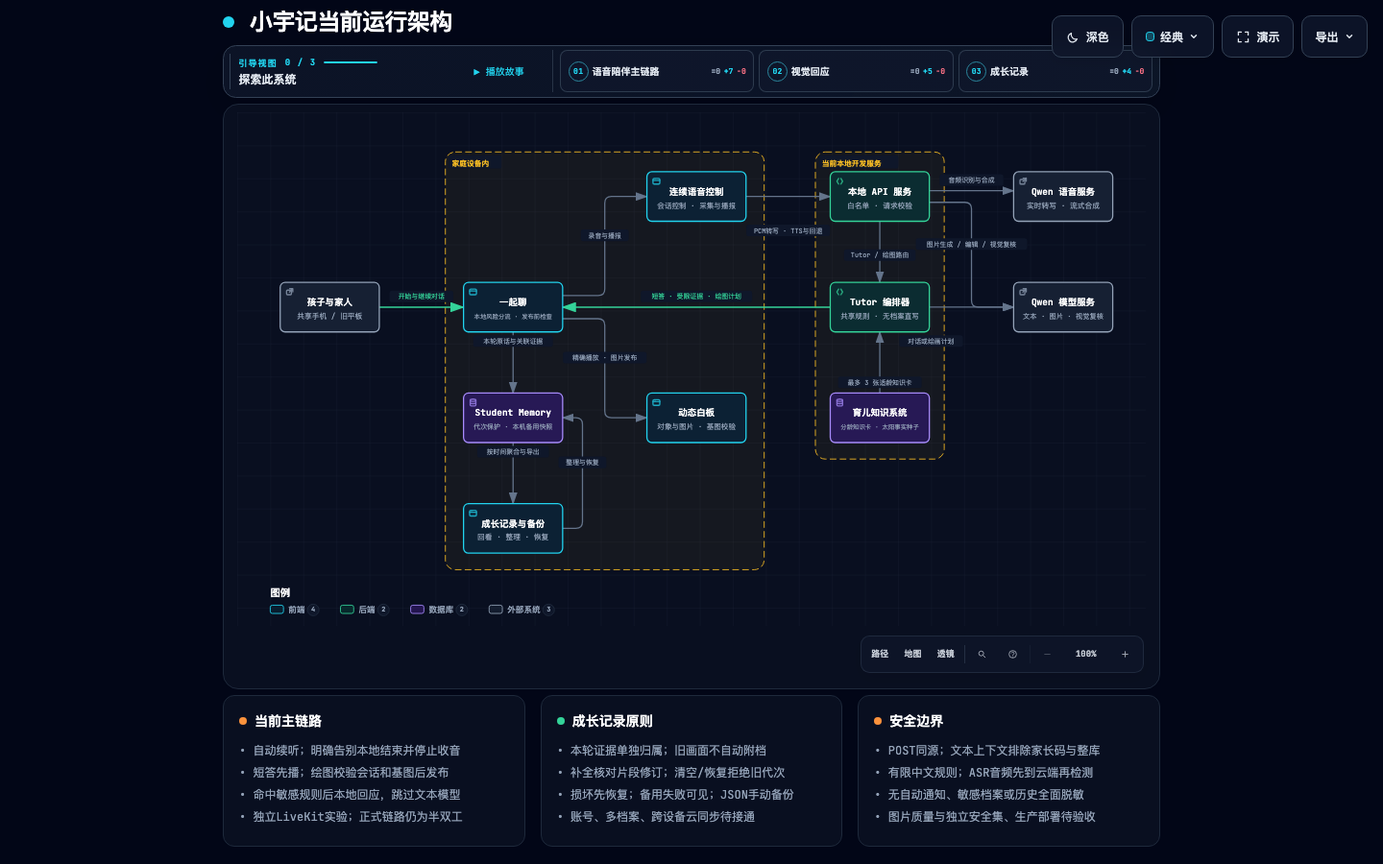
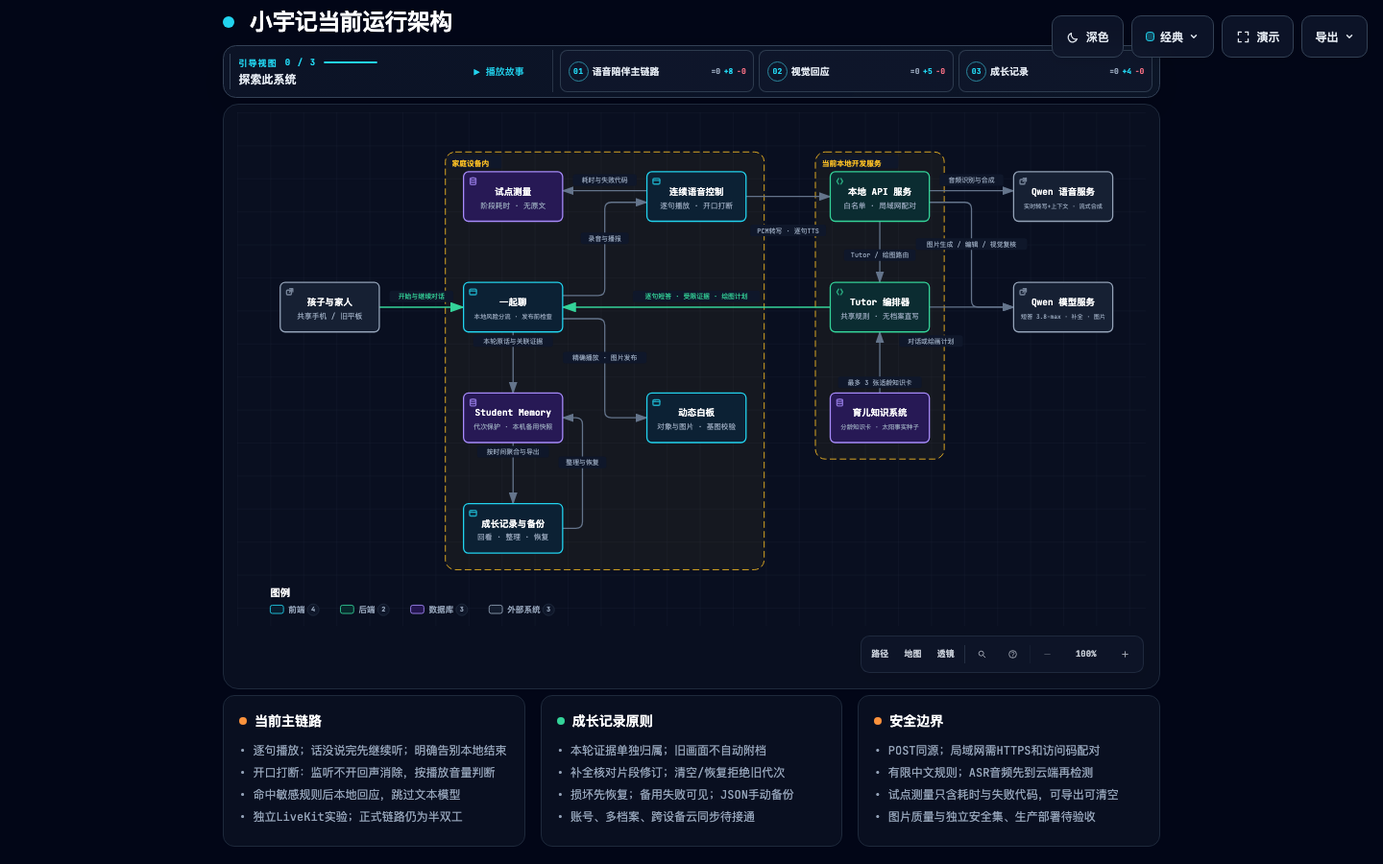
Sync runtime architecture diagram and record qwen3.8-max cost
- Diagram: sentence-by-sentence playback and barge-in in voice control,
  LAN pairing on the local server, recogniser context, qwen3.8-max quick
  replies, and a device-side pilot measurement store (timings only);
  9/9 checks, visual check passed, screenshots reviewed
- Cost: official Beijing prices (max 12/36 vs flash 0.2/0.8 per M tokens);
  ~89% of quick-reply input hits the automatic cache, so a turn costs
  about 0.024 vs 0.011 yuan in total

diff --git a/product/docs/architecture/xiaoyuji-runtime.architecture.html b/product/docs/architecture/xiaoyuji-runtime.architecture.html
@@ -4959,7 +4959,7 @@
       </div>
     </div>
 
-    <script id="archify-guided-views-data" type="application/json">[{"id":"voice-loop","label":"语音陪伴主链路","focus":["family","conversation_ui","voice_pipeline","local_server","qwen_speech","tutor_orchestrator","qwen_text"],"note":"正式网页仍半双工：只读状态、候选单次接收、后台补全与媒体展示分离。独立voice-lab默认合成测试，显式Qwen模式已验证本机音频、打断与停止，不写家庭档案；漏词与延迟未达标，儿童体验及iPhone锁屏尚未验收。"},{"id":"visual-response","label":"视觉回应","focus":["tutor_orchestrator","conversation_ui","whiteboard","local_server","qwen_text"],"note":"精确对象本地执行；开放图片生成后必须通过视觉模型的低幼安全、要求匹配和编辑保持检查。自动检查不是完整发布验收。"},{"id":"growth-record","label":"成长记录","focus":["tutor_orchestrator","student_memory","growth_experience","family"],"note":"本轮上下文独立，旧画面不自动附档；补全核对revision/sessionId。普通写入经applicationPersistence统一结果及失败提示，保留已保存片段身份。替换/恢复沿用专用流程。同步主存储与整包备用快照不变，跨记录事务及历史清理未完成。"}]</script>
+    <script id="archify-guided-views-data" type="application/json">[{"id":"voice-loop","label":"语音陪伴主链路","focus":["family","conversation_ui","voice_pipeline","local_server","qwen_speech","tutor_orchestrator","qwen_text","pilot_log"],"note":"正式网页仍半双工，但已支持逐句播放与开口打断（监听麦克风不开回声消除，参照播放音量判断）。局域网试点经HTTPS与访问码配对；测量只存本机标签页。独立voice-lab仍为实验。儿童体验、iPhone锁屏与生产部署尚未验收。"},{"id":"visual-response","label":"视觉回应","focus":["tutor_orchestrator","conversation_ui","whiteboard","local_server","qwen_text"],"note":"精确对象本地执行；开放图片生成后必须通过视觉模型的低幼安全、要求匹配和编辑保持检查。自动检查不是完整发布验收。"},{"id":"growth-record","label":"成长记录","focus":["tutor_orchestrator","student_memory","growth_experience","family"],"note":"本轮上下文独立，旧画面不自动附档；补全核对revision/sessionId。普通写入经applicationPersistence统一结果及失败提示，保留已保存片段身份。替换/恢复沿用专用流程。同步主存储与整包备用快照不变，跨记录事务及历史清理未完成。"}]</script>
 
     <script id="archify-i18n-data" type="application/json">{"locale":"zh-CN","messages":{"viewer.kind.frontend":"前端","viewer.kind.backend":"后端","viewer.kind.database":"数据库","viewer.kind.cloud":"云服务","viewer.kind.security":"安全","viewer.kind.messagebus":"消息总线","viewer.kind.external":"外部系统","viewer.kind.neutral":"中性","viewer.kind.node":"节点","viewer.kind.start":"开始","viewer.kind.active":"活动","viewer.kind.waiting":"等待","viewer.kind.decision":"决策","viewer.kind.success":"成功","viewer.kind.failure":"失败","viewer.toolbar.actions":"图表操作","viewer.theme.toggle.title":"切换主题（T）","viewer.theme.toggle":"切换颜色主题","viewer.theme.dark":"深色","viewer.theme.light":"浅色","viewer.preset.choose.title":"选择视觉风格（S 循环切换）","viewer.preset.choose":"选择视觉风格","viewer.preset.style":"风格","viewer.preset.menu":"视觉风格","viewer.preset.identity":"视觉表达","viewer.preset.cycles":"S 循环切换","viewer.preset.classic":"经典","viewer.preset.classic.short":"经典","viewer.preset.classic.hint":"稳定的技术默认风格","viewer.preset.flow":"信号流","viewer.preset.flow.short":"流动","viewer.preset.flow.hint":"突出动态流向","viewer.preset.blueprint":"蓝图","viewer.preset.blueprint.hint":"工程评审","viewer.preset.editorial":"编辑风格","viewer.preset.editorial.hint":"适合发布与上线说明","viewer.preset.badge.signalFlow":"信号流","viewer.preset.badge.blueprint":"蓝图 / 修订 01","viewer.preset.badge.editorial":"编辑风格 / 现场笔记","viewer.preset.badge.editorialPlate":"ARCHIFY / 图版 04","viewer.preset.current":"当前视觉风格：{style}。选择视觉风格","viewer.motion.live":"动态","viewer.motion.still":"静态","viewer.motion.pause":"暂停动效","viewer.motion.resume":"恢复动效","viewer.motion.reduced":"已根据减少动态效果偏好暂停动效","viewer.motion.hidden":"页面不可见时已暂停动效","viewer.motion.yielding":"暂停动效；当前让位于{owner}","viewer.motion.yielding.title":"动态预览已启用 · 正在让位于{owner}","viewer.owner.story":"引导故事","viewer.owner.chapter":"当前章节","viewer.owner.chapterPreview":"章节差异预览","viewer.owner.handoff":"章节交接","viewer.owner.route":"路径探测","viewer.owner.lens":"语义透镜","viewer.owner.relationship":"关系预览","viewer.owner.intent":"意图追踪","viewer.owner.focus":"语义聚焦","viewer.owner.legend":"图例预览","viewer.owner.reader":"读者交互","viewer.present.enter":"进入演示模式","viewer.present.enter.title":"演示模式（F）","viewer.present.exit":"退出演示模式","viewer.present.exit.title":"退出演示模式（F 或 Escape）","viewer.present.present":"演示","viewer.present.exit.label":"退出","viewer.export.button":"导出","viewer.export.button.title":"导出图表（E）","viewer.export.diagram":"导出图表","viewer.export.menu":"导出","viewer.export.subtitle":"便携、整洁的输出","viewer.export.share":"分享","viewer.export.shareCard":"分享卡片","viewer.export.routeShareCard":"路径分享卡片","viewer.export.reachShareCard":"可达范围分享卡片","viewer.export.copyShareCard":"复制分享卡片","viewer.export.copyDiagram":"复制图表","viewer.export.clipboardPng":"复制 PNG 到剪贴板","viewer.export.raster":"位图","viewer.export.image":"图像","viewer.export.lossless":"无损图像","viewer.export.compact":"紧凑图像","viewer.export.modern":"现代图像格式","viewer.export.vectorMotion":"矢量与动效","viewer.export.vectorMotion.heading":"矢量与动效","viewer.export.editable":"可编辑矢量图","viewer.export.motion6s":"6 秒动效","viewer.export.unsupported":"当前浏览器不支持","viewer.export.clipboardUnsupported":"当前浏览器不支持写入图片剪贴板","viewer.export.clipboardUnsupported.period":"当前浏览器不支持写入图片剪贴板。","viewer.export.clipboardUnsupported.short":"此浏览器不支持写入图片剪贴板。","viewer.export.motionUnavailable":"当前浏览器无法录制动效","viewer.export.webmUnavailable":"当前浏览器不支持 WebM","viewer.export.failed":"导出失败：{message}","viewer.export.unknownVariant":"未知的分享卡片类型：{variant}","viewer.export.routeRequired":"请先追踪路径，再导出路径分享卡片","viewer.export.reachRequired":"请先追踪编写可达范围，再导出可达范围分享卡片","viewer.export.unknown":"未知错误","viewer.export.routeFailed":"路径分享卡片导出失败：{message}","viewer.export.reachFailed":"可达范围分享卡片导出失败：{message}","viewer.export.copyFailed":"复制失败：{message}","viewer.export.copiedPng":"已将 PNG 复制到剪贴板","viewer.export.copiedShare":"已复制分享卡片","viewer.export.downloadedShare":"已下载分享卡片","viewer.export.downloadedRoute":"已下载路径分享卡片","viewer.export.downloadedReach":"已下载可达范围分享卡片","viewer.export.downloadedWebm":"已下载 WebM","viewer.export.recording":"正在录制 6 秒动效…","viewer.export.card.routeSummary.one":"路径：{source} → {target} · {count} 个有向跳转","viewer.export.card.routeSummary.other":"路径：{source} → {target} · {count} 个有向跳转","viewer.export.card.reachSummary":"从{origin}开始的编写{direction} · {nodes} · {links} · 最深 {hops}","viewer.export.card.node.one":"{count} 个节点","viewer.export.card.node.other":"{count} 个节点","viewer.export.card.link.one":"{count} 条连接","viewer.export.card.link.other":"{count} 条连接","viewer.export.card.hop.one":"{count} 跳","viewer.export.card.hop.other":"{count} 跳","viewer.export.card.routeBadge":"ARCHIFY · 路径 · {hops}","viewer.export.card.reachBadge":"ARCHIFY · {direction}可达范围","viewer.export.card.defaultBadge":"ARCHIFY · {preset} · {theme}","viewer.export.direction.upstream":"上游","viewer.export.direction.downstream":"下游","viewer.export.error.canvasUnavailable":"无法为{label}使用画布","viewer.export.error.contextUnavailable":"无法为{label}创建二维画布上下文","viewer.export.error.toBlobUnavailable":"{label}无法使用 canvas.toBlob","viewer.export.error.toBlobNull":"{label}的 canvas.toBlob 未返回数据","viewer.export.error.variantsCombined":"无法同时组合多种分享卡片类型","viewer.export.error.viewerState":"分享卡片导出无法移除临时 Viewer 状态","viewer.export.error.routeState":"路径卡片导出无法安全保留已解析路径","viewer.export.error.reachState":"可达范围卡片导出无法安全保留编写的可达范围","viewer.export.error.webmRequirements":"WebM 动效导出需要追踪动画及浏览器 MediaRecorder 支持","viewer.export.error.mediaRecorder":"MediaRecorder 录制失败","viewer.export.error.emptyWebm":"MediaRecorder 生成了空的 WebM","viewer.export.error.webmBackground":"无法为 WebM 导出加载 SVG 背景","viewer.guided.region":"图表引导视图","viewer.guided.previous":"上一个引导视图","viewer.guided.previous.title":"上一个引导视图（[）","viewer.guided.next":"下一个引导视图","viewer.guided.next.title":"下一个引导视图（]）","viewer.guided.views":"引导视图","viewer.guided.explore":"探索此系统","viewer.guided.intro":"沿精选路径逐步查看，而不改变源图表。","viewer.guided.trail":"故事轨迹","viewer.guided.beat":"节点","viewer.guided.nextBeat":"下一步","viewer.guided.play":"播放引导故事","viewer.guided.play.title":"播放引导故事（P）","viewer.guided.pause":"暂停引导故事","viewer.guided.pause.title":"暂停引导故事（P）","viewer.guided.replay":"重播引导故事","viewer.guided.replay.title":"重播引导故事（P）","viewer.guided.playStory":"播放故事","viewer.guided.pauseStory":"暂停","viewer.guided.replayStory":"重播故事","viewer.guided.motionUnavailable":"静态模式下无法播放故事","viewer.guided.enableMotion":"切换为动态模式以播放引导故事","viewer.guided.selectBeatLink":"选择故事节点以复制其精确链接","viewer.guided.copyMoment":"复制此刻","viewer.guided.momentCopied":"已复制时刻链接","viewer.guided.momentCopyFailed":"无法复制故事时刻链接","viewer.guided.copied":"已复制","viewer.guided.copyFailed":"复制失败","viewer.guided.showAll":"显示全部","viewer.guided.showAll.aria":"显示完整图表","viewer.guided.chapters":"故事章节","viewer.guided.storyTrail":"{label}的故事轨迹：{count} 个节点","viewer.guided.chapter.open":"打开第 {index}/{total} 章：{label}，{count} 个停靠点","viewer.guided.chapter.current":"当前第 {index}/{total} 章：{label}，{count} 个停靠点","viewer.guided.chapter.selectedNodes":"已选择 {count} 个节点","viewer.guided.chapter.stops":"{count} 个停靠点","viewer.guided.chapter.stop.one":"{count} 个停靠点","viewer.guided.chapter.stop.other":"{count} 个停靠点","viewer.guided.chapter.current.title":"{label} — 当前章节，{count} 个停靠点","viewer.guided.chapter.delta.expanded":"{stay} 个保留，{enter} 个进入，{leave} 个离开","viewer.guided.chapter.delta.aria":"打开第 {index}/{total} 章：{label}。章节聚焦差异：{delta}","viewer.guided.chapter.delta.title":"{label} — 章节聚焦 {delta}","viewer.guided.handoff":"{from} → {to} · 经由{label}","viewer.guided.share.chapter":"章节 {index} / {total}","viewer.guided.share.initial":"章节 01 / 01","viewer.guided.share.default":"引导章节","viewer.guided.state.ready":"就绪","viewer.guided.state.playing":"播放中","viewer.guided.state.settled":"已完成","viewer.guided.state.paused":"已暂停","viewer.guided.state.pinned":"已固定","viewer.guided.state.still":"静态","viewer.guided.share.step":"步骤 {index} / {total} · {label}","viewer.guided.share.staticMoment":"{step} · 静态时刻","viewer.guided.share.complete":"{count} 个步骤已完成 · {note}","viewer.guided.share.settled":"路径已稳定，可供阅读。","viewer.guided.share.staticPath":"{count} 个步骤 · 静态路径","viewer.guided.share.ready":"{count} 个步骤 · 就绪","viewer.guided.share.aria":"{state}，第 {index}/{total} 章：{label}。{beat}。{route}","viewer.guided.beat.start":"节点 {index} / {total} · {label} · 起点","viewer.guided.beat.forward":"节点 {index} / {total} · {from} → {to}","viewer.guided.beat.reverse":"节点 {index} / {total} · {from} → {to} · 反向编写连接","viewer.guided.beat.multiple":"节点 {index} / {total} · {from} ⇄ {to} · {count} 条编写连接","viewer.guided.beat.group":"节点 {index} / {total} · {from} · {to} · 分组 · 无直接连接","viewer.guided.beat.aria.prefix":"故事节点 {index}/{total}：{label}。","viewer.guided.beat.aria.start":"起点。","viewer.guided.beat.aria.forward":"从{from}经一条正向编写关系到达。","viewer.guided.beat.aria.reverse":"从{from}出发；编写关系实际由{to}指向{from}。","viewer.guided.beat.aria.multiple":"从{from}经 {count} 条编写关系到达；不使用任意动效。","viewer.guided.beat.aria.group":"与{from}分组展示，没有直接编写关系。","viewer.guided.caption.start":"起点","viewer.guided.caption.grouped":"分组过渡 · 无直接编写连接","viewer.guided.caption.more":" +另外 {count} 条","viewer.guided.caption.reverse":"反向编写关系","viewer.guided.caption.relationships":"{count} 条编写关系","viewer.guided.caption.relationship":"编写关系","viewer.guided.caption.direction":"编写方向：{from} → {to}","viewer.guided.caption.starting":"编写起点","viewer.guided.beatLink":"复制当前故事时刻链接：第 {index}/{total} 个节点：{label}","viewer.guided.noStory":"此图表没有编写引导故事。","viewer.guide.eyebrow":"图表指南","viewer.guide.close":"关闭图表指南","viewer.guide.inspecting":"正在检查已编译语义","viewer.guide.actions":"图表探索操作","viewer.guide.find":"查找任意节点","viewer.guide.find.hint":"搜索标签、职责、类型和稳定 ID。","viewer.guide.route":"追踪路径","viewer.guide.route.aria":"追踪有向路径","viewer.guide.route.hint":"查看两个语义节点如何按编写方向连接。","viewer.guide.map":"查看完整系统","viewer.guide.map.hint":"打开带实时视口和稳定节点的语义雷达。","viewer.guide.lens":"比较语义类型","viewer.guide.lens.hint":"统计角色、显示流量并比较直接编写的连接。","viewer.guide.story":"播放引导故事","viewer.guide.story.hint":"浏览已编写的章节和真实关系。","viewer.guide.present":"进入演示模式","viewer.guide.present.hint":"让实时图表占满视口，同时不改变导出。","viewer.guide.shortcuts":"其他键盘快捷键","viewer.guide.shortcut.export":"导出","viewer.guide.shortcut.theme":"主题","viewer.guide.shortcut.style":"风格","viewer.guide.shortcut.reset":"重置","viewer.guide.shortcut.zoomIn":"放大","viewer.guide.shortcut.zoomOut":"缩小","viewer.guide.shortcut.close":"关闭","viewer.guide.facts":"{nodes} · {relationships} · {views}","viewer.guide.fact.node.one":"{count} 个语义节点","viewer.guide.fact.node.other":"{count} 个语义节点","viewer.guide.fact.relationship.one":"{count} 条关系","viewer.guide.fact.relationship.other":"{count} 条关系","viewer.guide.fact.view.one":"{count} 个引导视图","viewer.guide.fact.view.other":"{count} 个引导视图","viewer.guide.story.available.one":"浏览 {count} 个已编写章节及其真实关系。","viewer.guide.story.available.other":"浏览 {count} 个已编写章节及其真实关系。","viewer.guide.story.unavailable":"此图表没有编写引导故事。","viewer.guide.open":"打开图表指南","viewer.guide.noStory":"此图表没有编写引导故事。","viewer.finder.title":"查找节点","viewer.finder.close":"关闭节点查找器","viewer.finder.placeholder":"搜索标签或 ID","viewer.finder.search":"搜索图表节点","viewer.finder.results":"图表节点","viewer.finder.empty":"没有匹配的节点","viewer.finder.result.focus":"聚焦{label}","viewer.finder.result.routeStart":"选择{label}作为路径起点","viewer.finder.result.routeTarget":"选择{label}作为路径终点，{links}","viewer.finder.status.empty":"没有匹配的节点","viewer.finder.status.count.one":"{count} 个匹配节点","viewer.finder.status.count.other":"{count} 个匹配节点","viewer.finder.noun.nodes":"个节点","viewer.finder.link.one":"{count} 条连接","viewer.finder.link.other":"{count} 条连接","viewer.finder.result.focus.one":"聚焦{label}，{count} 条相关连接","viewer.finder.result.focus.other":"聚焦{label}，{count} 条相关连接","viewer.finder.status.filtered":"{visible}/{available} {noun}","viewer.finder.status.all":"{available} {noun}","viewer.passport.eyebrow":"语义护照","viewer.passport.metadata":"节点元数据","viewer.passport.evidence":"已验证的源代码证据","viewer.passport.verified":"已验证来源","viewer.passport.reach":"编写可达范围","viewer.passport.reach.trace":"追踪编写的可达性","viewer.passport.upstream":"上游","viewer.passport.downstream":"下游","viewer.passport.upstream.trace":"追踪上游编写可达性","viewer.passport.downstream.trace":"追踪下游编写可达性","viewer.passport.close":"关闭语义护照","viewer.passport.copy":"复制链接","viewer.passport.copy.focus":"复制聚焦节点的链接","viewer.passport.relations":"关系","viewer.passport.relations.show":"显示关联关系","viewer.passport.relations.hide":"隐藏关联关系","viewer.passport.relations.list":"关联关系","viewer.passport.copyRelation":"复制关系","viewer.passport.copyNode":"复制节点","viewer.passport.copyPinned":"复制固定关系的链接","viewer.passport.copySource":"复制来源节点的链接","viewer.passport.copy.focused.success":"已复制聚焦节点链接","viewer.passport.copy.pinned.success":"已复制固定关系链接","viewer.passport.copy.focused.failed":"无法复制聚焦节点链接","viewer.passport.copy.pinned.failed":"无法复制固定关系链接","viewer.passport.relationship.none":"没有关联关系","viewer.passport.relationship.count.one":"{count} 条关系","viewer.passport.relationship.count.other":"{count} 条关系","viewer.passport.relationship.show.one":"显示 {count} 条关联关系","viewer.passport.relationship.show.other":"显示 {count} 条关联关系","viewer.passport.relationship.summary":"{out} 条出向 · {in} 条入向{loops}","viewer.passport.relationship.loops":" · {count} 条自环","viewer.passport.relationship.explorer":"直接关系浏览器","viewer.passport.relationship.help":"使用方向键浏览关系。按 Enter 或空格键固定详情；按 Escape 清除。","viewer.passport.relationship.loopsBack":"回环","viewer.passport.relationship.connectsTo":"连接到","viewer.passport.relationship.connectsFrom":"连接自","viewer.passport.relationship.pinned":"已固定关系 · {from} → {to} · {label}","viewer.passport.relationship.inspect":"检查第 {index}/{total} 条关系：{from} 到 {to}，{label}。按 Enter 查看详情。","viewer.passport.relationship.group.out":"出向","viewer.passport.relationship.group.in":"入向","viewer.passport.relationship.group.loop":"自环","viewer.passport.relationship.row":"{group}：{relationship}，{neighbor}","viewer.passport.relationship.direction.out":"出 →","viewer.passport.relationship.direction.in":"← 入","viewer.passport.relationship.direction.loop":"自环","viewer.passport.sourceCount.one":"{count} 个已验证来源引用","viewer.passport.sourceCount.other":"{count} 个已验证来源引用","viewer.passport.sourceMarker":"来源","viewer.passport.beacon.one":"{count} 个已验证来源；聚焦此节点以检查","viewer.passport.beacon.other":"{count} 个已验证来源；聚焦此节点以检查","viewer.passport.repository.open":"打开已验证的仓库修订版本 {revision}","viewer.passport.source.open":"打开修订版本 {revision} 中已验证的来源 {path}","viewer.passport.source.openLink":"打开 ↗","viewer.passport.reach.upstream.one":"追踪 {count} 个上游编写节点","viewer.passport.reach.upstream.other":"追踪 {count} 个上游编写节点","viewer.passport.reach.downstream.one":"追踪 {count} 个下游编写节点","viewer.passport.reach.downstream.other":"追踪 {count} 个下游编写节点","viewer.passport.reach.noUpstream":"没有上游编写节点","viewer.passport.reach.noDownstream":"没有下游编写节点","viewer.passport.reach.status":"{direction} · {nodes} 个节点 · {links} 条连接 · 最深 {hops} 跳","viewer.route.eyebrow":"路径探测","viewer.route.start":"选择起点节点","viewer.route.start.find":"查找起点","viewer.route.start.find.aria":"查找路径起点","viewer.route.copy":"复制链接","viewer.route.copy.aria":"复制已追踪路径的链接","viewer.route.clear":"清除","viewer.route.clear.aria":"清除路径探测","viewer.route.traced":"已追踪路径","viewer.route.pickTwo":"在图表中选择两个语义节点","viewer.route.pickOne":"在图表中选择一个语义节点","viewer.route.controls":"路径旅程控制","viewer.route.previous":"上一个路径位置","viewer.route.play":"播放路径旅程","viewer.route.pause":"暂停路径旅程","viewer.route.replay":"重播路径旅程","viewer.route.next":"下一个路径位置","viewer.route.journey":"旅程","viewer.route.pause.label":"暂停","viewer.route.replay.label":"重播","viewer.route.overview":"总览","viewer.route.overview.aria":"显示完整路径总览","viewer.route.instructions":"先选择来源，再选择目标；方向很重要。","viewer.route.destination":"选择从{label}出发的目标","viewer.route.destination.find":"查找目标","viewer.route.destination.find.aria":"查找可达的路径目标","viewer.route.differentDestination":"选择其他目标","viewer.route.distinct":"一条路径需要两个不同的语义节点。","viewer.route.unreachable":"没有通往{label}的有向路径","viewer.route.unreachable.detail":"从{source}无法到达{target}。请选择高亮的目标。","viewer.route.start.instructions":"选择来源。下一步只会显示有向可达的目标。","viewer.route.copy.success":"已复制路径链接","viewer.route.copy.failed":"无法复制路径链接","viewer.route.position":"路径位置 {index}/{total}：{label}","viewer.route.step":"第 {index}/{total} 步 · {phase} · {label}","viewer.route.motionRequired":"自动旅程需要动态模式","viewer.route.trigger.clear":"清除已追踪路径","viewer.route.overview.status":"{nodes} · {hops} · 最短编写路径","viewer.route.overview.node.one":"{count} 个节点","viewer.route.overview.node.other":"{count} 个节点","viewer.route.overview.hop.one":"{count} 个有向跳转","viewer.route.overview.hop.other":"{count} 个有向跳转","viewer.route.phase.playing":"播放中","viewer.route.phase.complete":"已完成","viewer.route.phase.inspecting":"检查中","viewer.route.destination.count.one":"有 {count} 个有向目标可用。请选择高亮节点。","viewer.route.destination.count.other":"有 {count} 个有向目标可用。请选择高亮节点。","viewer.route.noOutgoing":"此处没有可用的出向路径。请清除后选择其他来源。","viewer.route.result.title":"{source} 到 {target}","viewer.route.finder.source.title":"选择路径起点","viewer.route.finder.source.placeholder":"搜索路径来源","viewer.route.finder.source.empty":"没有匹配的路径来源","viewer.route.finder.source.results":"可作为路径起点的节点","viewer.route.finder.source.noun":"个路径来源","viewer.route.finder.source.badge":"起点","viewer.route.finder.target.title":"从{label}出发的目标","viewer.route.finder.target.placeholder":"搜索可达目标","viewer.route.finder.target.empty":"没有匹配的可达目标","viewer.route.finder.target.results":"可达路径目标","viewer.route.finder.target.noun":"个可达目标","viewer.route.hop.one":"{count} 跳","viewer.route.hop.other":"{count} 跳","viewer.lens.eyebrow":"语义透镜","viewer.lens.title":"比较系统角色","viewer.lens.close":"关闭语义透镜","viewer.lens.instruction":"最多选择两种语义类型。选择一种可显示其真实流量；选择两种只比较直接编写的关系。","viewer.lens.kinds":"语义类型","viewer.lens.choose":"选择一种类型以检查其节点和相连关系。","viewer.lens.copy":"复制语义透镜链接","viewer.lens.clear":"清除语义透镜","viewer.lens.open":"打开语义透镜","viewer.lens.openActive":"打开当前语义透镜","viewer.lens.legend":"语义图例","viewer.lens.legend.inspect.one":"检查{label}，{count} 个节点","viewer.lens.legend.inspect.other":"检查{label}，{count} 个节点","viewer.lens.kind.count.one":"{label}，{count} 个节点","viewer.lens.kind.count.other":"{label}，{count} 个节点","viewer.lens.compare.one":"{first} → {second}：{forward} · {second} → {first}：{reverse} · 共 {count} 条直接关系","viewer.lens.compare.other":"{first} → {second}：{forward} · {second} → {first}：{reverse} · 共 {count} 条直接关系","viewer.lens.single":"{nodes} · {relationships} · 已连接节点保持可见","viewer.lens.node.one":"{count} 个{label}节点","viewer.lens.node.other":"{count} 个{label}节点","viewer.lens.relationship.one":"{count} 条相连关系","viewer.lens.relationship.other":"{count} 条相连关系","viewer.radar.title":"语义雷达","viewer.radar.building":"正在构建总览","viewer.radar.openFull":"打开完整语义雷达","viewer.radar.open":"打开雷达","viewer.radar.close":"关闭语义雷达","viewer.radar.surface":"图表总览。点击节点进行聚焦，或使用方向键平移。","viewer.radar.click":"点击节点","viewer.radar.drag":"拖动平移","viewer.radar.space":"语义雷达需要更多地图可见空间。","viewer.radar.nodes":"语义图表雷达节点","viewer.radar.focus":"从语义雷达聚焦{label}","viewer.radar.status":"{count} 个节点 · {viewport}","viewer.radar.fullMap":"{count} 个节点 · 完整地图","viewer.radar.compacted":"已收紧雷达，避免遮挡语义护照或地图控件。","viewer.radar.cancelWaiting":"取消等待更多地图空间的语义雷达","viewer.radar.needsSpace":"语义雷达需要更多可见地图空间","viewer.radar.viewport.full":"完整地图","viewer.radar.viewport.width":"宽度 {percent}%","viewer.radar.viewport.scale":"视口 {percent}%","viewer.nav.controls":"图表视图控制","viewer.nav.route":"追踪有向路径","viewer.nav.route.title":"追踪路径（R）","viewer.nav.route.short":"路径","viewer.nav.radar":"打开语义雷达","viewer.nav.radar.title":"语义雷达（M）","viewer.nav.radar.short":"地图","viewer.nav.lens":"打开语义透镜","viewer.nav.lens.title":"语义透镜（L）","viewer.nav.lens.short":"透镜","viewer.nav.find":"查找节点","viewer.nav.find.title":"查找节点（/）","viewer.nav.guide":"打开图表指南","viewer.nav.guide.title":"图表指南（?）","viewer.nav.zoomOut":"缩小","viewer.nav.zoomOut.title":"缩小（-）","viewer.nav.reset":"重置图表视图","viewer.nav.reset.title":"重置视图（0）","viewer.nav.read":"阅读","viewer.nav.zoomIn":"放大","viewer.nav.zoomIn.title":"放大（+）","viewer.nav.camera":"{hint}。重置图表视图","viewer.nav.camera.title":"{semantic}{hint} · 重置视图（0）","viewer.nav.camera.semantic":"语义相机已启用 · ","viewer.nav.level.map":"概览","viewer.nav.level.read":"阅读","viewer.nav.level.full":"完整","viewer.nav.level.auto":"自动","viewer.nav.detail.map":"放大以显示关系标签和节点上下文","viewer.nav.detail.read":"再次放大以显示标签和注释","viewer.nav.detail.full":"完整图表详情","viewer.intent.summary":"{label}。{out} 条出向，{in} 条入向{loops}。共 {total} 条连接。按 Enter 查看详情。","viewer.intent.loops":"，{count} 条自环","viewer.common.copied":"已复制","viewer.common.copyFailed":"复制失败","viewer.common.copyLink":"复制链接","viewer.common.clear":"清除","viewer.common.close":"关闭"}}</script>
     <div class="guided-views no-print" id="guided-views" hidden aria-label="图表引导视图">
@@ -5037,17 +5037,18 @@
         <!-- Connection paths (before components for correct z-order) -->
         <path data-edge-from="local_server" data-edge-to="qwen_text" data-edge-label="图片生成 / 编辑 / 视觉复核" data-edge-key="0" data-edge-id="server_calls_image" data-composition-points="838,109;889,109;889,236;940,236" d="M 838 109 L 881 109 Q 889 109 889 117 L 889 228 Q 889 236 897 236 L 940 236" class="a-default" stroke-width="1.5" marker-end="url(#arrowhead)"/>
         <path data-edge-from="family" data-edge-to="conversation_ui" data-edge-label="开始与继续对话" data-edge-key="1" data-edge-id="family_starts_conversation" data-composition-points="172,236;274,236" d="M 172 236 L 274 236" class="a-emphasis" stroke-width="1.8" marker-end="url(#arrowhead-emphasis)"/>
-        <path data-edge-from="conversation_ui" data-edge-to="voice_pipeline" data-edge-label="录音与播报" data-edge-key="2" data-edge-id="ui_controls_voice" data-composition-points="394,222;445,222;445,102;496,102" d="M 394 222 L 437 222 Q 445 222 445 214 L 445 110 Q 445 102 453 102 L 496 102" class="a-default" stroke-width="1.5" marker-end="url(#arrowhead)"/>
-        <path data-edge-from="voice_pipeline" data-edge-to="local_server" data-edge-label="PCM转写 · TTS与回退" data-edge-key="3" data-edge-id="voice_calls_server" data-composition-points="616,102;718,102" d="M 616 102 L 718 102" class="a-default" stroke-width="1.5" marker-end="url(#arrowhead)"/>
+        <path data-edge-from="conversation_ui" data-edge-to="voice_pipeline" data-edge-label="录音与播报" data-edge-key="2" data-edge-id="ui_controls_voice" data-composition-points="394,222;445,222;445,109;496,109" d="M 394 222 L 437 222 Q 445 222 445 214 L 445 117 Q 445 109 453 109 L 496 109" class="a-default" stroke-width="1.5" marker-end="url(#arrowhead)"/>
+        <path data-edge-from="voice_pipeline" data-edge-to="local_server" data-edge-label="PCM转写 · 逐句TTS" data-edge-key="3" data-edge-id="voice_calls_server" data-composition-points="616,102;718,102" d="M 616 102 L 718 102" class="a-default" stroke-width="1.5" marker-end="url(#arrowhead)"/>
         <path data-edge-from="local_server" data-edge-to="qwen_speech" data-edge-label="音频识别与合成" data-edge-key="4" data-edge-id="server_calls_speech" data-composition-points="838,95;940,95" d="M 838 95 L 940 95" class="a-default" stroke-width="1.5" marker-end="url(#arrowhead)"/>
         <path data-edge-from="local_server" data-edge-to="tutor_orchestrator" data-edge-label="Tutor / 绘图路由" data-edge-key="5" data-edge-id="server_routes_turn" data-composition-points="778,132;778,206" d="M 778 132 L 778 206" class="a-default" stroke-width="1.5" marker-end="url(#arrowhead)"/>
         <path data-edge-from="tutor_orchestrator" data-edge-to="qwen_text" data-edge-label="对话或绘画计划" data-edge-key="6" data-edge-id="orchestrator_calls_text" data-composition-points="838,236;940,236" d="M 838 236 L 940 236" class="a-default" stroke-width="1.5" marker-end="url(#arrowhead)"/>
         <path data-edge-from="knowledge_runtime" data-edge-to="tutor_orchestrator" data-edge-label="最多 3 张适龄知识卡" data-edge-key="7" data-edge-id="knowledge_guides_tutor" data-composition-points="778,340;778,266" d="M 778 340 L 778 266" class="a-default" stroke-width="1.5" marker-end="url(#arrowhead)"/>
-        <path data-edge-from="tutor_orchestrator" data-edge-to="conversation_ui" data-edge-label="短答 · 受限证据 · 绘图计划" data-edge-key="8" data-edge-id="orchestrator_returns_structure" data-composition-points="718,236;394,236" d="M 718 236 L 394 236" class="a-emphasis" stroke-width="1.8" marker-end="url(#arrowhead-emphasis)"/>
+        <path data-edge-from="tutor_orchestrator" data-edge-to="conversation_ui" data-edge-label="逐句短答 · 受限证据 · 绘图计划" data-edge-key="8" data-edge-id="orchestrator_returns_structure" data-composition-points="718,236;394,236" d="M 718 236 L 394 236" class="a-emphasis" stroke-width="1.8" marker-end="url(#arrowhead-emphasis)"/>
         <path data-edge-from="conversation_ui" data-edge-to="whiteboard" data-edge-label="精确播放 · 图片发布" data-edge-key="9" data-edge-id="ui_renders_board" data-composition-points="394,250;445,250;445,370;496,370" d="M 394 250 L 437 250 Q 445 250 445 258 L 445 362 Q 445 370 453 370 L 496 370" class="a-default" stroke-width="1.5" marker-end="url(#arrowhead)"/>
         <path data-edge-from="conversation_ui" data-edge-to="student_memory" data-edge-label="本轮原话与关联证据" data-edge-key="10" data-edge-id="ui_saves_evidence" data-composition-points="334,266;334,340" d="M 334 266 L 334 340" class="a-default" stroke-width="1.5" marker-end="url(#arrowhead)"/>
         <path data-edge-from="student_memory" data-edge-to="growth_experience" data-edge-label="按时间聚合与导出" data-edge-key="11" data-edge-id="memory_builds_growth" data-composition-points="334,400;334,474" d="M 334 400 L 334 474" class="a-default" stroke-width="1.5" marker-end="url(#arrowhead)"/>
         <path data-edge-from="growth_experience" data-edge-to="student_memory" data-edge-label="整理与恢复" data-edge-key="12" data-edge-id="parent_updates_archive" data-composition-points="394,504;418,504;418,370;394,370" d="M 394 504 L 410 504 Q 418 504 418 496 L 418 378 Q 418 370 410 370 L 394 370" class="a-default" stroke-width="1.5" marker-end="url(#arrowhead)"/>
+        <path data-edge-from="voice_pipeline" data-edge-to="pilot_log" data-edge-label="耗时与失败代码" data-edge-key="13" data-edge-id="voice_records_timing" data-composition-points="496,95;394,95" d="M 496 95 L 394 95" class="a-default" stroke-width="1.5" marker-end="url(#arrowhead)"/>
 
         <!-- Components -->
         <g id="node-family" data-node-id="family" data-node-label="孩子与家人" tabindex="0" role="button" aria-label="聚焦孩子与家人，共享手机 / 旧平板, 架构组件" aria-pressed="false" data-node-kind="external" data-node-sublabel="共享手机 / 旧平板" data-node-context="架构组件">
@@ -5076,8 +5077,8 @@
         <text data-detail="context" x="334" y="250" class="t-muted" font-size="7.4" text-anchor="middle">本地风险分流 · 发布前检查</text>
         </g>
 
-        <g id="node-voice_pipeline" data-node-id="voice_pipeline" data-node-label="连续语音控制" tabindex="0" role="button" aria-label="聚焦连续语音控制，会话控制 · 采集与播报, 家庭设备内" aria-pressed="false" data-node-kind="frontend" data-node-sublabel="会话控制 · 采集与播报" data-node-context="家庭设备内">
-          <title>连续语音控制 · 会话控制 · 采集与播报 · 家庭设备内</title>
+        <g id="node-voice_pipeline" data-node-id="voice_pipeline" data-node-label="连续语音控制" tabindex="0" role="button" aria-label="聚焦连续语音控制，逐句播放 · 开口打断, 家庭设备内" aria-pressed="false" data-node-kind="frontend" data-node-sublabel="逐句播放 · 开口打断" data-node-context="家庭设备内">
+          <title>连续语音控制 · 逐句播放 · 开口打断 · 家庭设备内</title>
           <rect x="496" y="72" width="120" height="60" rx="6" class="c-mask"/>
           <rect x="496" y="72" width="120" height="60" rx="6" class="c-frontend" stroke-width="1.5"/>
           <g aria-hidden="true" data-semantic-sigil="frontend" class="semantic-sigil s-frontend" transform="translate(502 78) scale(0.6875)">
@@ -5087,22 +5088,22 @@
             <circle cx="6.3" cy="4.8" r=".7" class="sigil-fill"/>
           </g>
           <text data-node-label="" data-detail-anchor="" x="556" y="100" class="t-primary" font-size="11" font-weight="600" text-anchor="middle">连续语音控制</text>
-        <text data-detail="context" x="556" y="116" class="t-muted" font-size="8.8" text-anchor="middle">会话控制 · 采集与播报</text>
+        <text data-detail="context" x="556" y="116" class="t-muted" font-size="9" text-anchor="middle">逐句播放 · 开口打断</text>
         </g>
 
-        <g id="node-local_server" data-node-id="local_server" data-node-label="本地 API 服务" tabindex="0" role="button" aria-label="聚焦本地 API 服务，白名单 · 请求校验, 当前本地开发服务" aria-pressed="false" data-node-kind="backend" data-node-sublabel="白名单 · 请求校验" data-node-context="当前本地开发服务">
-          <title>本地 API 服务 · 白名单 · 请求校验 · 当前本地开发服务</title>
+        <g id="node-local_server" data-node-id="local_server" data-node-label="本地 API 服务" tabindex="0" role="button" aria-label="聚焦本地 API 服务，白名单 · 局域网配对, 当前本地开发服务" aria-pressed="false" data-node-kind="backend" data-node-sublabel="白名单 · 局域网配对" data-node-context="当前本地开发服务">
+          <title>本地 API 服务 · 白名单 · 局域网配对 · 当前本地开发服务</title>
           <rect x="718" y="72" width="120" height="60" rx="6" class="c-mask"/>
           <rect x="718" y="72" width="120" height="60" rx="6" class="c-backend" stroke-width="1.5"/>
           <g aria-hidden="true" data-semantic-sigil="backend" class="semantic-sigil s-backend" transform="translate(724 78) scale(0.6875)">
             <path d="M6 3 3 8l3 5M10 3l3 5-3 5"/>
           </g>
           <text data-node-label="" data-detail-anchor="" x="778" y="100" class="t-primary" font-size="11" font-weight="600" text-anchor="middle">本地 API 服务</text>
-        <text data-detail="context" x="778" y="116" class="t-muted" font-size="9" text-anchor="middle">白名单 · 请求校验</text>
+        <text data-detail="context" x="778" y="116" class="t-muted" font-size="9" text-anchor="middle">白名单 · 局域网配对</text>
         </g>
 
-        <g id="node-qwen_speech" data-node-id="qwen_speech" data-node-label="Qwen 语音服务" tabindex="0" role="button" aria-label="聚焦Qwen 语音服务，实时转写 · 流式合成, 架构组件" aria-pressed="false" data-node-kind="external" data-node-sublabel="实时转写 · 流式合成" data-node-context="架构组件">
-          <title>Qwen 语音服务 · 实时转写 · 流式合成 · 架构组件</title>
+        <g id="node-qwen_speech" data-node-id="qwen_speech" data-node-label="Qwen 语音服务" tabindex="0" role="button" aria-label="聚焦Qwen 语音服务，实时转写+上下文 · 流式合成, 架构组件" aria-pressed="false" data-node-kind="external" data-node-sublabel="实时转写+上下文 · 流式合成" data-node-context="架构组件">
+          <title>Qwen 语音服务 · 实时转写+上下文 · 流式合成 · 架构组件</title>
           <rect x="940" y="72" width="120" height="60" rx="6" class="c-mask"/>
           <rect x="940" y="72" width="120" height="60" rx="6" class="c-external" stroke-width="1.5"/>
           <g aria-hidden="true" data-semantic-sigil="external" class="semantic-sigil s-external" transform="translate(946 78) scale(0.6875)">
@@ -5110,7 +5111,7 @@
             <path d="M8 2.5h5.5V8M13.5 2.5 7.5 8.5"/>
           </g>
           <text data-node-label="" data-detail-anchor="" x="1000" y="100" class="t-primary" font-size="11" font-weight="600" text-anchor="middle">Qwen 语音服务</text>
-        <text data-detail="context" x="1000" y="116" class="t-muted" font-size="9" text-anchor="middle">实时转写 · 流式合成</text>
+        <text data-detail="context" x="1000" y="116" class="t-muted" font-size="7.1" text-anchor="middle">实时转写+上下文 · 流式合成</text>
         </g>
 
         <g id="node-tutor_orchestrator" data-node-id="tutor_orchestrator" data-node-label="Tutor 编排器" tabindex="0" role="button" aria-label="聚焦Tutor 编排器，共享规则 · 无档案直写, 当前本地开发服务" aria-pressed="false" data-node-kind="backend" data-node-sublabel="共享规则 · 无档案直写" data-node-context="当前本地开发服务">
@@ -5124,8 +5125,8 @@
         <text data-detail="context" x="778" y="250" class="t-muted" font-size="8.8" text-anchor="middle">共享规则 · 无档案直写</text>
         </g>
 
-        <g id="node-qwen_text" data-node-id="qwen_text" data-node-label="Qwen 模型服务" tabindex="0" role="button" aria-label="聚焦Qwen 模型服务，文本 · 图片 · 视觉复核, 架构组件" aria-pressed="false" data-node-kind="external" data-node-sublabel="文本 · 图片 · 视觉复核" data-node-context="架构组件">
-          <title>Qwen 模型服务 · 文本 · 图片 · 视觉复核 · 架构组件</title>
+        <g id="node-qwen_text" data-node-id="qwen_text" data-node-label="Qwen 模型服务" tabindex="0" role="button" aria-label="聚焦Qwen 模型服务，短答 3.8-max · 补全 · 图片, 架构组件" aria-pressed="false" data-node-kind="external" data-node-sublabel="短答 3.8-max · 补全 · 图片" data-node-context="架构组件">
+          <title>Qwen 模型服务 · 短答 3.8-max · 补全 · 图片 · 架构组件</title>
           <rect x="940" y="206" width="120" height="60" rx="6" class="c-mask"/>
           <rect x="940" y="206" width="120" height="60" rx="6" class="c-external" stroke-width="1.5"/>
           <g aria-hidden="true" data-semantic-sigil="external" class="semantic-sigil s-external" transform="translate(946 212) scale(0.6875)">
@@ -5133,7 +5134,7 @@
             <path d="M8 2.5h5.5V8M13.5 2.5 7.5 8.5"/>
           </g>
           <text data-node-label="" data-detail-anchor="" x="1000" y="234" class="t-primary" font-size="11" font-weight="600" text-anchor="middle">Qwen 模型服务</text>
-        <text data-detail="context" x="1000" y="250" class="t-muted" font-size="8.4" text-anchor="middle">文本 · 图片 · 视觉复核</text>
+        <text data-detail="context" x="1000" y="250" class="t-muted" font-size="7.1" text-anchor="middle">短答 3.8-max · 补全 · 图片</text>
         </g>
 
         <g id="node-knowledge_runtime" data-node-id="knowledge_runtime" data-node-label="育儿知识系统" tabindex="0" role="button" aria-label="聚焦育儿知识系统，分龄知识卡 · 太阳事实种子, 当前本地开发服务" aria-pressed="false" data-node-kind="database" data-node-sublabel="分龄知识卡 · 太阳事实种子" data-node-context="当前本地开发服务">
@@ -5188,6 +5189,18 @@
         <text data-detail="context" x="334" y="518" class="t-muted" font-size="9" text-anchor="middle">回看 · 整理 · 恢复</text>
         </g>
 
+        <g id="node-pilot_log" data-node-id="pilot_log" data-node-label="试点测量" tabindex="0" role="button" aria-label="聚焦试点测量，阶段耗时 · 无原文, 家庭设备内" aria-pressed="false" data-node-kind="database" data-node-sublabel="阶段耗时 · 无原文" data-node-context="家庭设备内">
+          <title>试点测量 · 阶段耗时 · 无原文 · 家庭设备内</title>
+          <rect x="274" y="72" width="120" height="60" rx="6" class="c-mask"/>
+          <rect x="274" y="72" width="120" height="60" rx="6" class="c-database" stroke-width="1.5"/>
+          <g aria-hidden="true" data-semantic-sigil="database" class="semantic-sigil s-database" transform="translate(280 78) scale(0.6875)">
+            <ellipse cx="8" cy="4" rx="5" ry="2"/>
+            <path d="M3 4v8c0 1.1 2.2 2 5 2s5-.9 5-2V4M3 8c0 1.1 2.2 2 5 2s5-.9 5-2"/>
+          </g>
+          <text data-node-label="" data-detail-anchor="" x="334" y="100" class="t-primary" font-size="11" font-weight="600" text-anchor="middle">试点测量</text>
+        <text data-detail="context" x="334" y="116" class="t-muted" font-size="9" text-anchor="middle">阶段耗时 · 无原文</text>
+        </g>
+
         <!-- Connection labels -->
         <g data-detail="context" data-edge-from="local_server" data-edge-to="qwen_text" data-edge-label="图片生成 / 编辑 / 视觉复核" data-edge-key="0" data-edge-id="server_calls_image">
           <rect x="821.6" y="152.5" width="134.8" height="14" rx="3" class="c-mask"/>
@@ -5198,12 +5211,12 @@
           <text x="223" y="226" class="t-backend" font-size="8" text-anchor="middle">开始与继续对话</text>
         </g>
         <g data-detail="context" data-edge-from="conversation_ui" data-edge-to="voice_pipeline" data-edge-label="录音与播报" data-edge-key="2" data-edge-id="ui_controls_voice">
-          <rect x="416" y="142" width="58" height="14" rx="3" class="c-mask"/>
-          <text x="445" y="152" class="t-muted" font-size="8" text-anchor="middle">录音与播报</text>
+          <rect x="416" y="145.5" width="58" height="14" rx="3" class="c-mask"/>
+          <text x="445" y="155.5" class="t-muted" font-size="8" text-anchor="middle">录音与播报</text>
         </g>
-        <g data-detail="context" data-edge-from="voice_pipeline" data-edge-to="local_server" data-edge-label="PCM转写 · TTS与回退" data-edge-key="3" data-edge-id="voice_calls_server">
-          <rect x="616.4" y="136" width="101.2" height="14" rx="3" class="c-mask"/>
-          <text x="667" y="146" class="t-muted" font-size="8" text-anchor="middle">PCM转写 · TTS与回退</text>
+        <g data-detail="context" data-edge-from="voice_pipeline" data-edge-to="local_server" data-edge-label="PCM转写 · 逐句TTS" data-edge-key="3" data-edge-id="voice_calls_server">
+          <rect x="621.2" y="136" width="91.6" height="14" rx="3" class="c-mask"/>
+          <text x="667" y="146" class="t-muted" font-size="8" text-anchor="middle">PCM转写 · 逐句TTS</text>
         </g>
         <g data-detail="context" data-edge-from="local_server" data-edge-to="qwen_speech" data-edge-label="音频识别与合成" data-edge-key="4" data-edge-id="server_calls_speech">
           <rect x="850.4" y="75" width="77.2" height="14" rx="3" class="c-mask"/>
@@ -5221,9 +5234,9 @@
           <rect x="727.4" y="320" width="101.2" height="14" rx="3" class="c-mask"/>
           <text x="778" y="330" class="t-muted" font-size="8" text-anchor="middle">最多 3 张适龄知识卡</text>
         </g>
-        <g data-detail="context" data-edge-from="tutor_orchestrator" data-edge-to="conversation_ui" data-edge-label="短答 · 受限证据 · 绘图计划" data-edge-key="8" data-edge-id="orchestrator_returns_structure">
-          <rect x="488.6" y="216" width="134.8" height="14" rx="3" class="c-mask"/>
-          <text x="556" y="226" class="t-backend" font-size="8" text-anchor="middle">短答 · 受限证据 · 绘图计划</text>
+        <g data-detail="context" data-edge-from="tutor_orchestrator" data-edge-to="conversation_ui" data-edge-label="逐句短答 · 受限证据 · 绘图计划" data-edge-key="8" data-edge-id="orchestrator_returns_structure">
+          <rect x="479" y="216" width="154" height="14" rx="3" class="c-mask"/>
+          <text x="556" y="226" class="t-backend" font-size="8" text-anchor="middle">逐句短答 · 受限证据 · 绘图计划</text>
         </g>
         <g data-detail="context" data-edge-from="conversation_ui" data-edge-to="whiteboard" data-edge-label="精确播放 · 图片发布" data-edge-key="9" data-edge-id="ui_renders_board">
           <rect x="394.4" y="290" width="101.2" height="14" rx="3" class="c-mask"/>
@@ -5240,6 +5253,10 @@
         <g data-detail="context" data-edge-from="growth_experience" data-edge-to="student_memory" data-edge-label="整理与恢复" data-edge-key="12" data-edge-id="parent_updates_archive">
           <rect x="389" y="417" width="58" height="14" rx="3" class="c-mask"/>
           <text x="418" y="427" class="t-muted" font-size="8" text-anchor="middle">整理与恢复</text>
+        </g>
+        <g data-detail="context" data-edge-from="voice_pipeline" data-edge-to="pilot_log" data-edge-label="耗时与失败代码" data-edge-key="13" data-edge-id="voice_records_timing">
+          <rect x="406.4" y="75" width="77.2" height="14" rx="3" class="c-mask"/>
+          <text x="445" y="85" class="t-muted" font-size="8" text-anchor="middle">耗时与失败代码</text>
         </g>
 
         <!-- Boundary labels (foreground masks keep routes out of titles) -->
@@ -5465,8 +5482,8 @@
           <h3>当前主链路</h3>
         </div>
         <ul>
-          <li>&bull; 自动续听；明确告别本地结束并停止收音</li>
-          <li>&bull; 短答先播；绘图校验会话和基图后发布</li>
+          <li>&bull; 逐句播放；话没说完先继续听；明确告别本地结束</li>
+          <li>&bull; 开口打断：监听不开回声消除，按播放音量判断</li>
           <li>&bull; 命中敏感规则后本地回应，跳过文本模型</li>
           <li>&bull; 独立LiveKit实验；正式链路仍为半双工</li>
         </ul>
@@ -5491,9 +5508,9 @@
           <h3>安全边界</h3>
         </div>
         <ul>
-          <li>&bull; POST同源；文本上下文排除家长码与整库</li>
+          <li>&bull; POST同源；局域网需HTTPS和访问码配对</li>
           <li>&bull; 有限中文规则；ASR音频先到云端再检测</li>
-          <li>&bull; 无自动通知、敏感档案或历史全面脱敏</li>
+          <li>&bull; 试点测量只含耗时与失败代码，可导出可清空</li>
           <li>&bull; 图片质量与独立安全集、生产部署待验收</li>
         </ul>
       </div>

diff --git a/product/docs/changes/2026-11-02-architecture-and-cost.md b/product/docs/changes/2026-11-02-architecture-and-cost.md
@@ -1,0 +1,44 @@
+# 运行架构图同步与 qwen3.8-max 费用核对
+
+日期：2026-11-02。
+
+## 一、运行架构图
+
+按 `docs/architecture/README.md` 的规则，这几天的改动里有几项必须同步到运行架构图：新增 API（`/api/tutor/quick/stream`、`/pair`）、信任边界变化（服务可经 HTTPS 和访问码向局域网开放）、新增本机数据（试点测量）、外部模型变化（短答改用 qwen3.8-max，识别带上下文），以及语音层职责变化（逐句播放、开口打断、话没说完先继续听）。
+
+`xiaoyuji-runtime.architecture.json` 的改动（原有组件 ID 保持不变）：
+- `voice_pipeline` 的副标题改为“逐句播放 · 开口打断”，`local_server` 改为“白名单 · 局域网配对”，`qwen_speech` 改为“实时转写+上下文 · 流式合成”，`qwen_text` 改为“短答 3.8-max · 补全 · 图片”。
+- 新增组件 `pilot_log`“试点测量（阶段耗时 · 无原文）”，放在“家庭设备内”区域；新增连线“连续语音控制 → 试点测量：耗时与失败代码”。最初放在“连续语音控制”正下方，连线会穿过“动态白板”，并与“逐句短答”连线交叉，校验报错；移到第 0 行第 1 列后通过。
+- 连线标签改为“PCM转写 · 逐句TTS”和“逐句短答 · 受限证据 · 绘图计划”。
+- 说明卡“当前主链路”和“安全边界”改为当前事实；“语音陪伴主链路”视图的说明同步更新。
+
+验证：`npm run check:architecture` 通过，9/9 项检查，0 错误 0 警告；`npm run architecture:build` 生成成功；`npm run architecture:visual-check` 通过。另外实际查看了 1440×900 浅色和 2048×1320 深色截图，没有裁切、遮挡或标签重叠。
+
+## 二、qwen3.8-max 费用
+
+**官方单价**（阿里云百炼，华北2 北京，按量，每百万 token）：
+
+| 模型 | 输入 | 输出 |
+|---|---|---|
+| qwen3.7-flash（原短答模型，≤32K 档） | 0.2 元 | 0.8 元 |
+| qwen3.8-flash | 0.8 元 | 2.7 元 |
+| qwen3.7-plus（≤256K 档，原价） | 2 元 | 8 元 |
+| qwen3.8-max（现短答模型） | 12 元 | 36 元 |
+
+来源：[阿里云百炼模型价格](https://help.aliyun.com/zh/model-studio/model-pricing)、[qwen3.8-max 模型信息](https://help.aliyun.com/zh/model-studio/qwen3-8-max)。缓存命中的输入价，第三方文章给出的是 1.5 元/百万 token，官方价目页本次没有列出这几个模型的确切缓存价，需要以控制台为准。
+
+**实测用量**（真实请求，4–5 岁，无历史）：每轮输入 2455–2473 token，输出 28–62 token。**平台自动缓存命中 2176 个输入 token（约 89%）**，响应里有 `prompt_tokens_details.cached_tokens`，不需要我们另做配置。
+
+**每轮估算**（输入按约 2800 token 计，其中 2176 命中缓存、约 620 未命中；输出约 60 token；其他环节按实时识别 5 秒、语音合成约 80 字、后台补全用 flash 计）：
+
+| | 短答 | 其他环节 | 每轮合计 | 20 轮会话 |
+|---|---|---|---|---|
+| qwen3.7-flash | ≈ 0.0006 元 | ≈ 0.011 元 | ≈ 0.011 元 | ≈ 0.22 元 |
+| qwen3.8-max，缓存命中 | ≈ 0.013 元 | ≈ 0.011 元 | ≈ 0.024 元 | ≈ 0.48 元 |
+| qwen3.8-max，缓存未命中 | ≈ 0.036 元 | ≈ 0.011 元 | ≈ 0.047 元 | ≈ 0.94 元 |
+
+其他环节的单价沿用此前记录：实时识别约 0.00033 元/秒，语音合成 1 元/万字符。
+
+**结论：** 短答本身贵了约 20 倍，但因为语音合成和识别原本就是主要成本，每轮总成本大约只翻一倍。缓存要求请求之间间隔不太长，长时间停顿后的第一轮会按全价计费。这些数字是按单价和实测用量估算的，没有查询实际账单。
+
+**可选的降本方向（未实施）：** 把每轮都会变化的内容（本轮指令、知识卡、历史）尽量放在提示末尾，让不变的前缀更长、缓存命中更多；或者只在孩子提问时用 max，其他情况用 flash。后者会让回答风格前后不一致，需要做对比。

diff --git a/product/docs/architecture/README.md b/product/docs/architecture/README.md
@@ -1,5 +1,7 @@
 # 小宇记项目架构维护
 
+2026-11-02：同步运行架构图（本轮）。语音控制改为“逐句播放 · 开口打断”：逐句经 `/api/tutor/quick/stream` 返回、首个长分句在逗号处先发声；打断监听麦克风不开回声消除，按播放输出音量判断。本地服务可经 `npm run pilot:lan` 以 HTTPS 和访问码配对向局域网开放（`/pair`，否则只监听本机）。实时识别带对话上下文；短答模型为 qwen3.8-max（后台补全不变）。新增设备内“试点测量”：只存本标签页的阶段耗时与失败代码，可导出可清空。源校验 9/9、0 错误 0 警告；视觉检查通过，已实际查看 1440 浅色与 2048 深色截图。详见 `../changes/2026-11-02-*.md`。
+
 2026-11-01：新增独立[本机LiveKit实验架构](xiaoyuji-voice-lab.architecture.html)，源为同名JSON；图展示已实测的Qwen真实模式；默认仍为免费合成测试，iPhone仍是待验证规划。真实接口/本机闭环连通不代表识别、延迟或稳定性达标，详见[真实联调记录](../changes/2026-11-01-livekit-real-validation.md)。正式页面继续半双工。见[实施记录](../changes/2026-11-01-livekit-loop.md)。
 
 2026-10-30 前端边界第二批：普通保存经 applicationPersistence 收口，统一失败结果与提示；保留部分成功的成长片段身份，资料/珍藏不误报成功，结束会话不因保存异常中断。订阅触发保存/渲染、替换恢复专用流程及非事务边界仍保留。见 [实施记录](../changes/2026-10-30-persistence-entry.md)。
